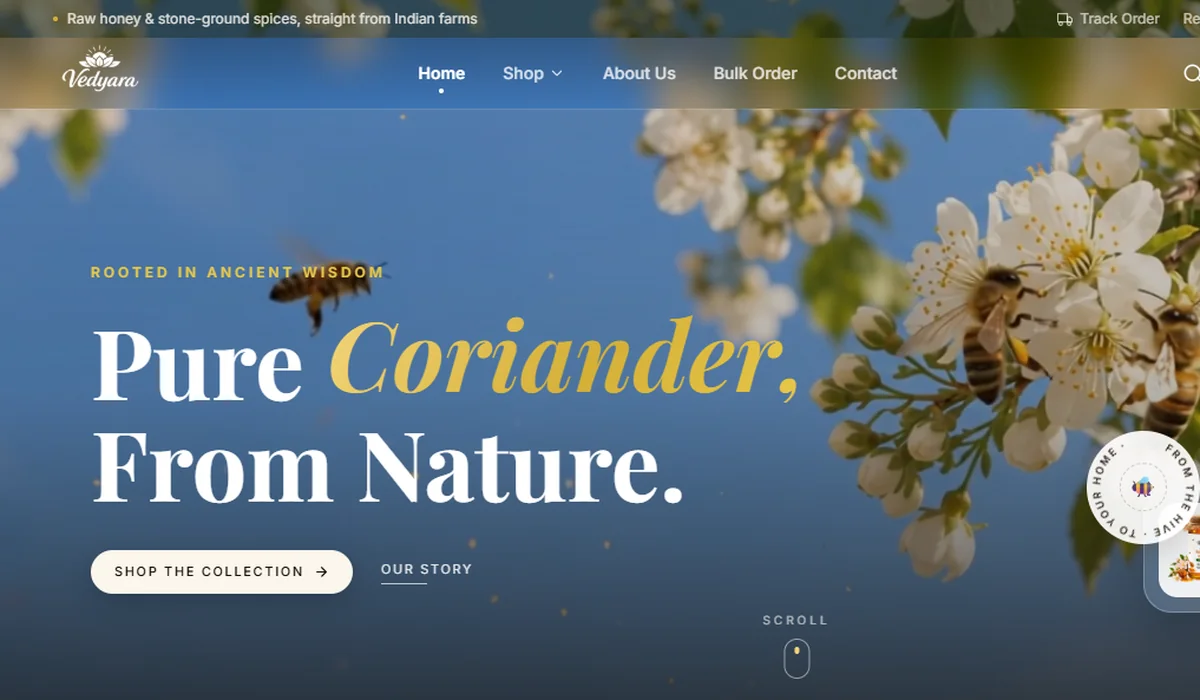
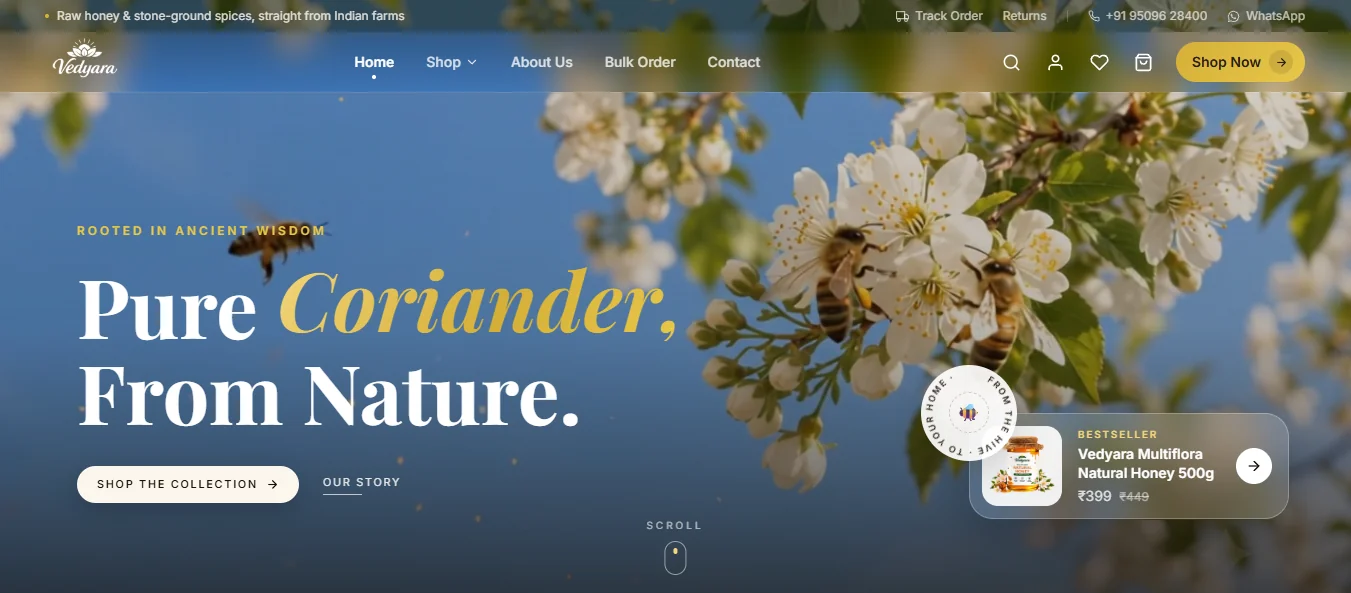
portfolio fix

diff --git a/src/components/sections/Work.tsx b/src/components/sections/Work.tsx
@@ -176,14 +176,14 @@ function BrowserFrame({ project: p }: { project: Project }) {
           <span className="truncate">{domain}</span>
         </span>
       </div>
-      <div className="relative aspect-[12/7] overflow-hidden rounded-[10px] bg-white">
+      <div className="relative aspect-[12/7] overflow-hidden rounded-[10px] bg-[#0e1014]">
         <img
           src={p.screen}
           alt={`${p.title} website`}
           loading="lazy"
           width={1200}
           height={700}
-          className="h-full w-full object-cover object-top transition-transform duration-700 ease-out group-hover:scale-[1.03]"
+          className="h-full w-full object-contain transition-transform duration-700 ease-out group-hover:scale-[1.03]"
         />
         <div className="pointer-events-none absolute inset-0 flex items-end justify-center bg-gradient-to-t from-black/40 via-transparent to-transparent opacity-0 transition-opacity duration-300 group-hover:opacity-100">
           <span className="mb-5 inline-flex translate-y-2 items-center gap-1.5 rounded-full bg-white px-4 py-2 text-[13px] font-semibold text-ink shadow-lg transition-transform duration-300 group-hover:translate-y-0">
